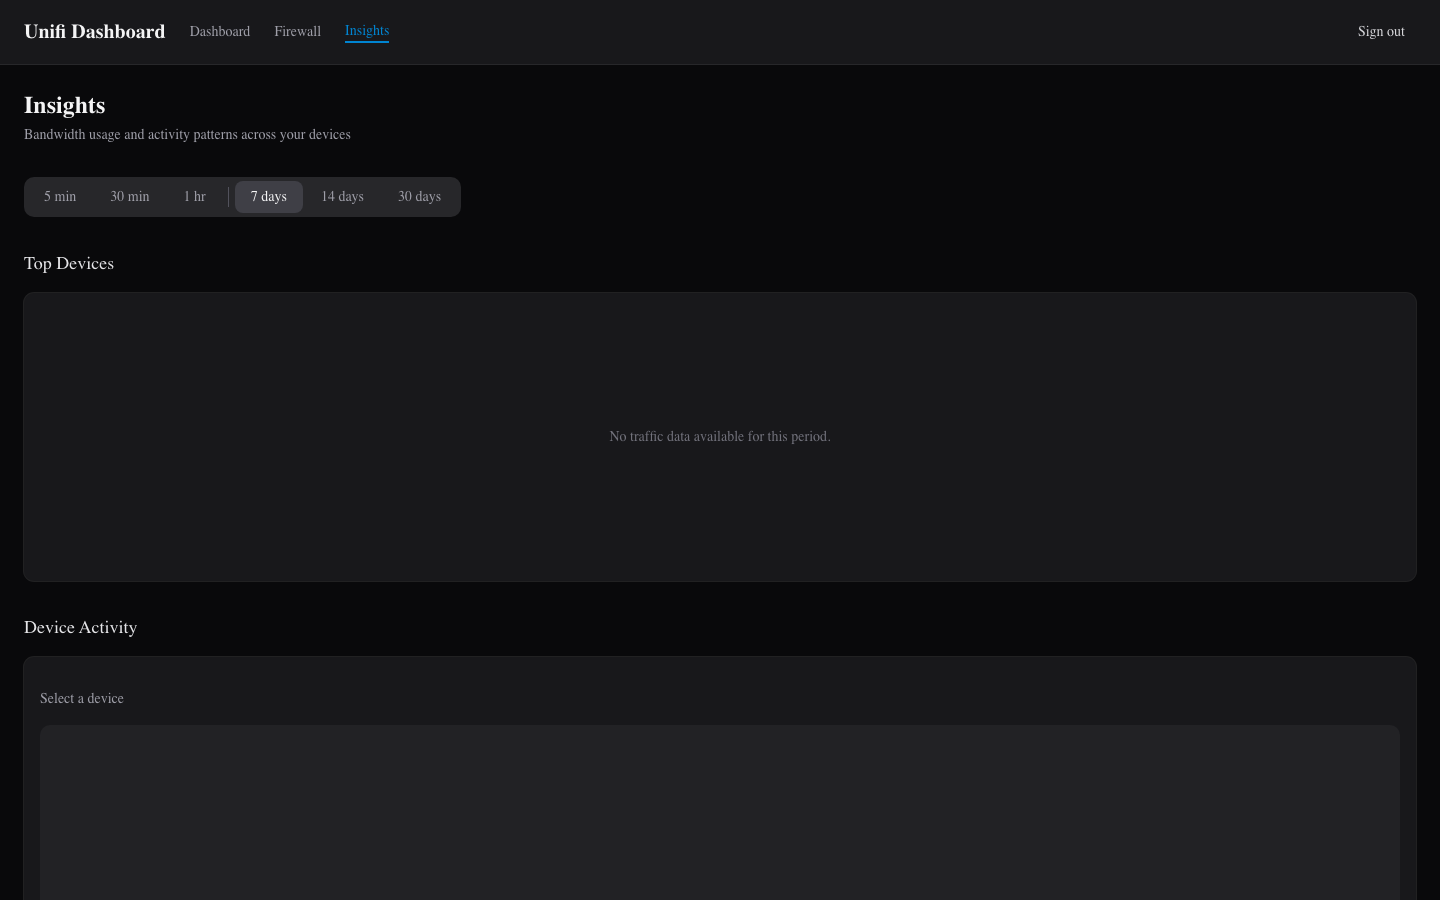
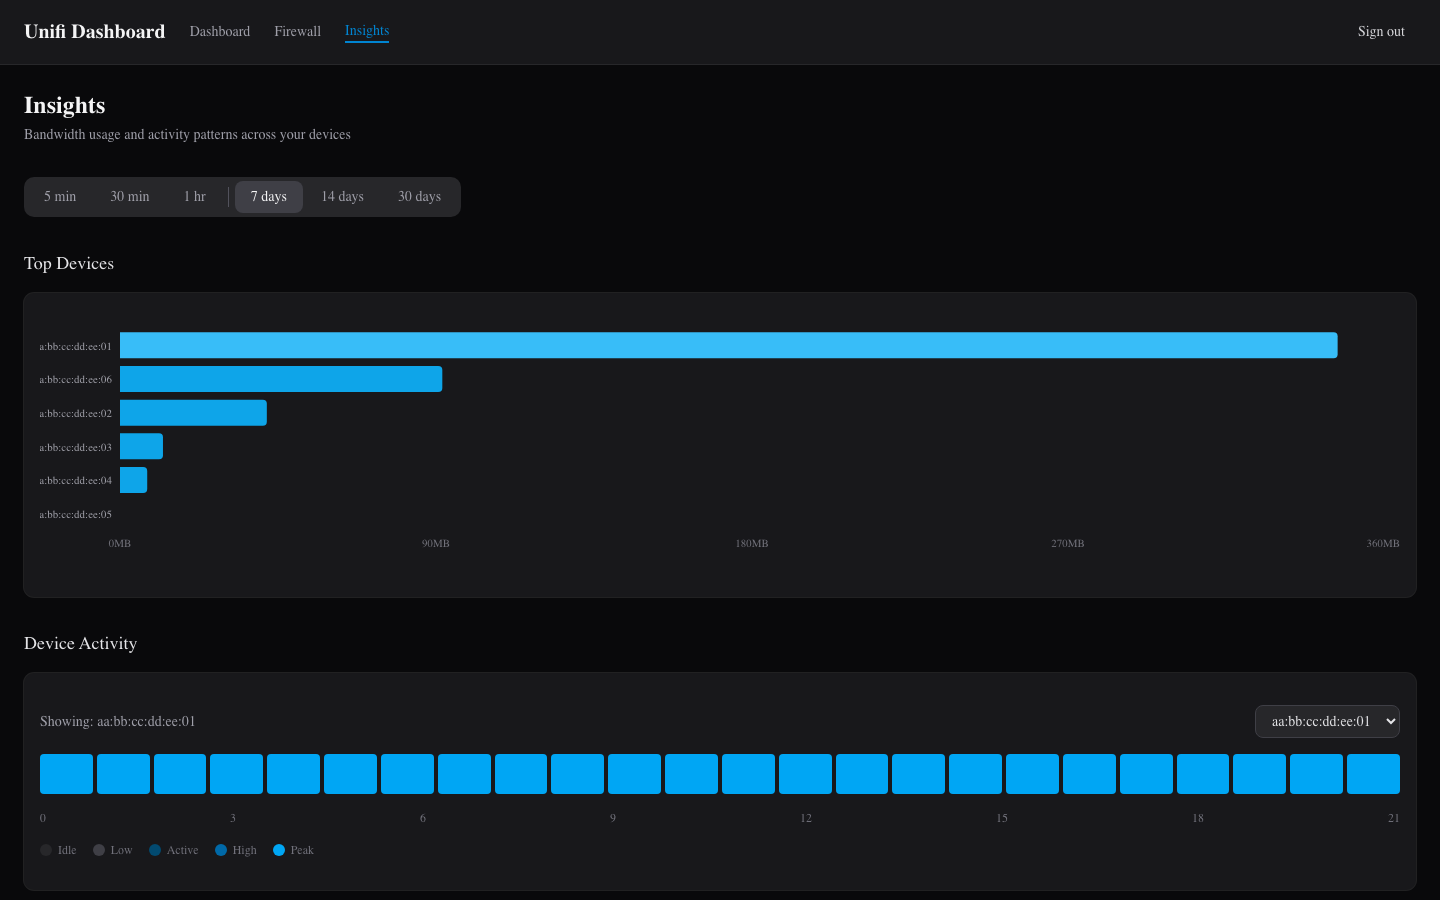
docs(screenshots): replace login screenshot with activity chart, update README and skill
- Remove login and old dashboard screenshots (boring, outdated)
- Add 01-dashboard.png and 02-device-activity.png (MacBook row expanded with traffic chart)
- Refresh 04-insights.png with seeded DB data
- Update capture.spec.ts: seed SQLite with 25h of sine-wave traffic, add device activity test
- Fix stray `db.run` line (TS error), update README and take-screenshots skill to new filenames

Claude-Session: https://claude.ai/code/session_014PMJ5LsuFrFcjWNSP1q1b6

diff --git a/e2e/screenshots/capture.spec.ts b/e2e/screenshots/capture.spec.ts
@@ -1,64 +1,113 @@
 /**
  * Screenshot capture suite — driven by the take-screenshots skill.
  *
- * Captures four pages (login, dashboard, firewall, insights) with mock data
- * and writes them to docs/screenshots/ for use in README.md and other docs.
+ * Captures pages with realistic mock traffic data and writes them to
+ * docs/screenshots/ for use in README.md and other docs.
  *
  * Run via:
- *   npx playwright test --config e2e/playwright.config.ts e2e/screenshots/capture.spec.ts
+ *   npx playwright test --config e2e/screenshot.config.ts
  *
- * Auth state from e2e/playwright/.auth/user.json is used for authenticated pages;
- * the login page is captured in a fresh context before auth.
+ * Auth state from e2e/playwright/.auth/user.json is used for authenticated pages.
  */
 import { test, expect } from '@playwright/test'
+import Database from 'better-sqlite3'
 import path from 'path'
 import fs from 'fs'
 
 const OUT = path.resolve('docs/screenshots')
 const VIEWPORT = { width: 1440, height: 900 }
+const DB_PATH = process.env.SQLITE_PATH ?? '/tmp/e2e-snapshots.db'
 
-// Ensure output directory exists
-test.beforeAll(() => fs.mkdirSync(OUT, { recursive: true }))
+// ── Seed the SQLite DB with 24h of realistic traffic ─────────────────────────
+// Runs once before any page navigations so charts have data to display.
+test.beforeAll(() => {
+  fs.mkdirSync(OUT, { recursive: true })
 
-// ── Login page (unauthenticated) ─────────────────────────────────────────────
-// Explicitly clear storageState so middleware sees no session and serves /login.
-const loginTest = test.extend<{ page: import('@playwright/test').Page }>({
-  page: async ({ browser }, use) => {
-    const ctx = await browser.newContext({
-      viewport: VIEWPORT,
-      storageState: { cookies: [], origins: [] },
-    })
-    const page = await ctx.newPage()
-    await use(page)
-    await ctx.close()
-  },
+  const db = new Database(DB_PATH)
+  db.exec(`
+    CREATE TABLE IF NOT EXISTS snapshots (
+      id INTEGER PRIMARY KEY AUTOINCREMENT,
+      client_mac TEXT NOT NULL,
+      download_bps INTEGER NOT NULL,
+      upload_bps INTEGER NOT NULL,
+      recorded_at INTEGER NOT NULL
+    );
+    CREATE INDEX IF NOT EXISTS idx_recorded_at ON snapshots (recorded_at);
+    CREATE INDEX IF NOT EXISTS idx_snapshots_mac_at ON snapshots (client_mac, recorded_at DESC);
+  `)
+
+  const insert = db.prepare(
+    'INSERT INTO snapshots (client_mac, download_bps, upload_bps, recorded_at) VALUES (?, ?, ?, ?)'
+  )
+
+  // 24 h of hourly snapshots per device — realistic but varied traffic curves
+  const devices: Array<{ mac: string; baseDl: number; baseUl: number }> = [
+    { mac: 'aa:bb:cc:dd:ee:01', baseDl: 15_000_000, baseUl: 2_000_000 }, // MacBook
+    { mac: 'aa:bb:cc:dd:ee:02', baseDl: 2_000_000,  baseUl: 50_000    }, // Smart TV
+    { mac: 'aa:bb:cc:dd:ee:03', baseDl: 500_000,     baseUl: 100_000   }, // Dad iPhone
+    { mac: 'aa:bb:cc:dd:ee:04', baseDl: 300_000,     baseUl: 80_000    }, // Mom iPad
+    { mac: 'aa:bb:cc:dd:ee:05', baseDl: 0,            baseUl: 0         }, // Ring Doorbell
+    { mac: 'aa:bb:cc:dd:ee:06', baseDl: 3_500_000,   baseUl: 1_000_000 }, // Nintendo
+  ]
+
+  const now = Math.floor(Date.now() / 1000)
+  const HOURS = 25  // slightly more than 24 h to fill the full window
+
+  db.transaction(() => {
+    for (const dev of devices) {
+      for (let h = HOURS; h >= 0; h--) {
+        // Add some sine-wave variation so the chart looks natural
+        const phase = (h / HOURS) * Math.PI * 2
+        const factor = 0.4 + 0.6 * Math.abs(Math.sin(phase + dev.mac.charCodeAt(15)))
+        insert.run(
+          dev.mac,
+          Math.round(dev.baseDl * factor),
+          Math.round(dev.baseUl * factor),
+          now - h * 3600
+        )
+      }
+    }
+  })()
+
+  db.close()
 })
 
-loginTest('capture login page', async ({ page }) => {
-  await page.goto('/login', { waitUntil: 'load' })
-  await expect(page.locator('#username')).toBeVisible({ timeout: 10_000 })
-  await page.screenshot({ path: path.join(OUT, '01-login.png') })
-})
-
-// ── Authenticated pages ──────────────────────────────────────────────────────
+// ── Dashboard — client table ──────────────────────────────────────────────────
 test('capture dashboard page', async ({ page }) => {
   await page.setViewportSize(VIEWPORT)
   await page.goto('/dashboard', { waitUntil: 'load' })
   await page.waitForLoadState('networkidle')
-  // Wait for the client table to be populated
   await expect(page.getByRole('cell', { name: 'MacBook Pro (Work)' })).toBeVisible()
-  await page.screenshot({ path: path.join(OUT, '02-dashboard.png') })
+  await page.screenshot({ path: path.join(OUT, '01-dashboard.png') })
 })
 
+// ── Dashboard — device history expanded ──────────────────────────────────────
+test('capture device activity chart', async ({ page }) => {
+  await page.setViewportSize(VIEWPORT)
+  await page.goto('/dashboard', { waitUntil: 'load' })
+  await page.waitForLoadState('networkidle')
+  await expect(page.getByRole('cell', { name: 'MacBook Pro (Work)' })).toBeVisible()
+
+  // Expand the MacBook Pro row to show the traffic chart
+  const macbookRow = page.getByRole('row', { name: /MacBook Pro/ })
+  await macbookRow.getByRole('button', { name: 'View' }).click()
+
+  // Wait for the chart to render with history data
+  await page.waitForLoadState('networkidle')
+  await page.waitForTimeout(800)  // let chart animate in
+  await page.screenshot({ path: path.join(OUT, '02-device-activity.png') })
+})
+
+// ── Firewall rules ────────────────────────────────────────────────────────────
 test('capture firewall page', async ({ page }) => {
   await page.setViewportSize(VIEWPORT)
   await page.goto('/dashboard/firewall', { waitUntil: 'load' })
   await page.waitForLoadState('networkidle')
-  // Wait for at least one firewall rule card
   await expect(page.getByText('Block Gaming Consoles')).toBeVisible()
   await page.screenshot({ path: path.join(OUT, '03-firewall.png') })
 })
 
+// ── Insights ──────────────────────────────────────────────────────────────────
 test('capture insights page', async ({ page }) => {
   await page.setViewportSize(VIEWPORT)
   await page.goto('/dashboard/insights', { waitUntil: 'load' })

diff --git a/.claude/skills/take-screenshots.md b/.claude/skills/take-screenshots.md
@@ -7,8 +7,8 @@ Invoke this skill whenever the UI changes significantly, before updating README.
 
 | File | Page |
 |------|------|
-| `docs/screenshots/01-login.png` | Login page |
-| `docs/screenshots/02-dashboard.png` | Dashboard — Network Clients table |
+| `docs/screenshots/01-dashboard.png` | Dashboard — Network Clients table |
+| `docs/screenshots/02-device-activity.png` | Dashboard — device traffic chart expanded |
 | `docs/screenshots/03-firewall.png` | Firewall — policy toggle list |
 | `docs/screenshots/04-insights.png` | Insights — traffic charts |
 
@@ -49,7 +49,7 @@ Check that all four files were written and are non-empty:
 ls -lh docs/screenshots/
 ```
 
-All four files (`01-login.png` through `04-insights.png`) must be present with sizes > 10 KB.
+All four files (`01-dashboard.png` through `04-insights.png`) must be present with sizes > 10 KB.
 
 ### 4 — Report
 

diff --git a/README.md b/README.md
@@ -15,9 +15,9 @@ Built for a family household. Connects to the UniFi console directly over LAN us
 
 ## Screenshots
 
-| Login | Dashboard |
-|-------|-----------|
-| ![Login page](docs/screenshots/01-login.png) | ![Dashboard — Network Clients](docs/screenshots/02-dashboard.png) |
+| Dashboard | Device Activity |
+|-----------|----------------|
+| ![Dashboard — Network Clients](docs/screenshots/01-dashboard.png) | ![Device traffic chart](docs/screenshots/02-device-activity.png) |
 
 | Firewall Rules | Insights |
 |----------------|----------|
